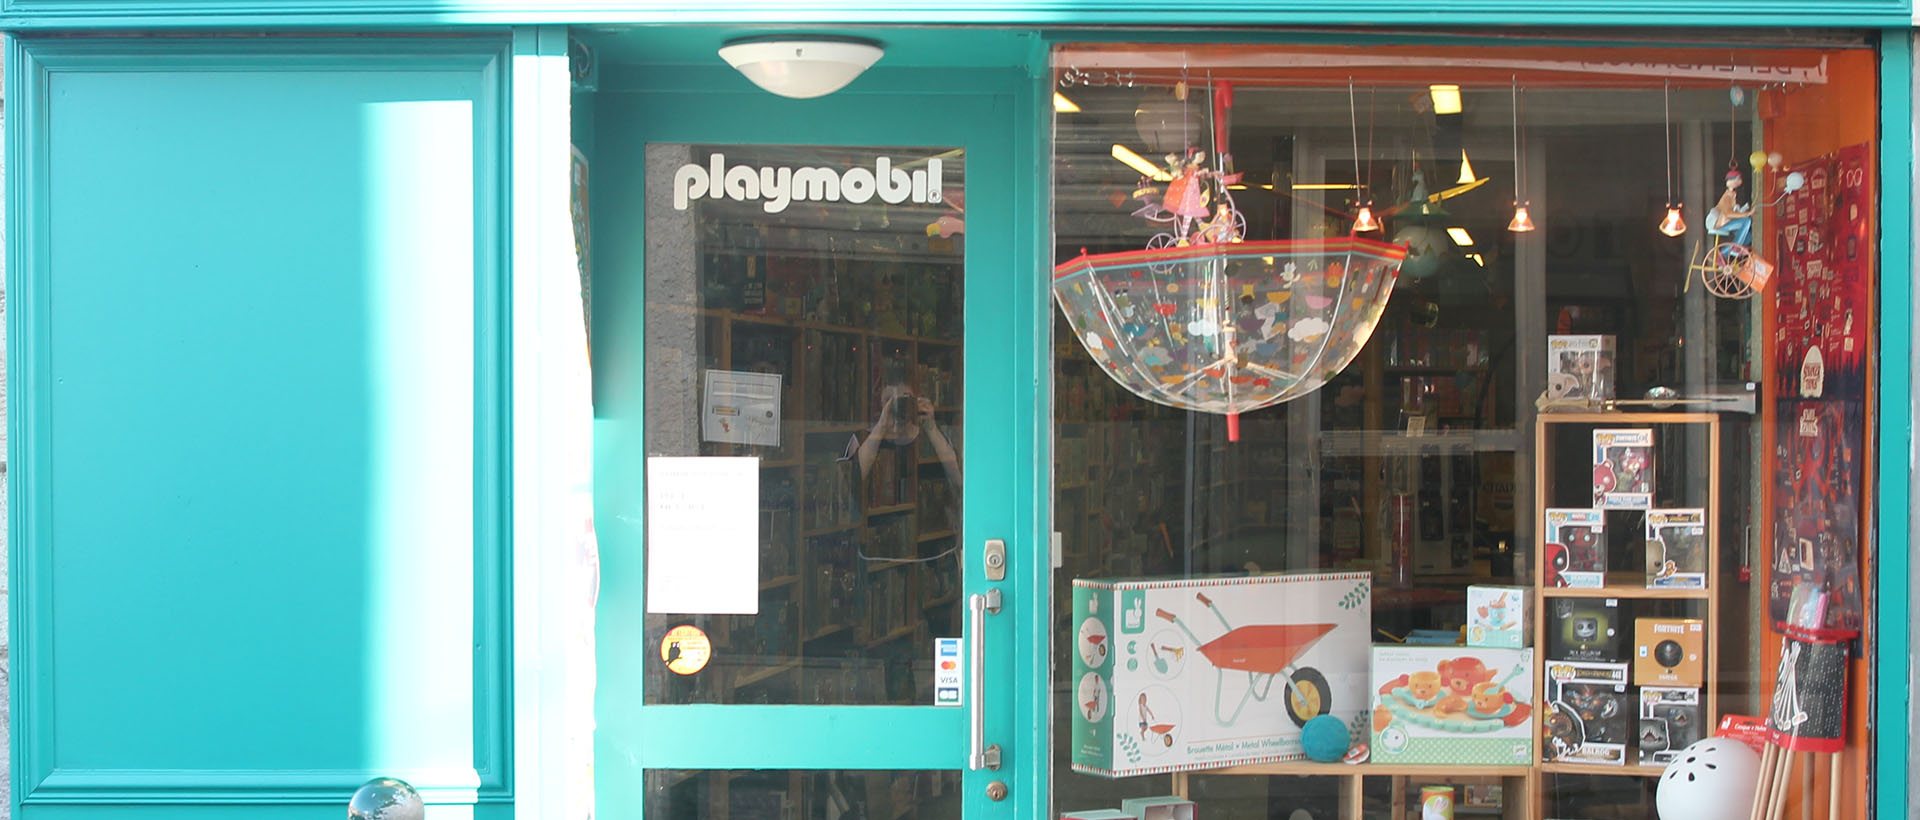
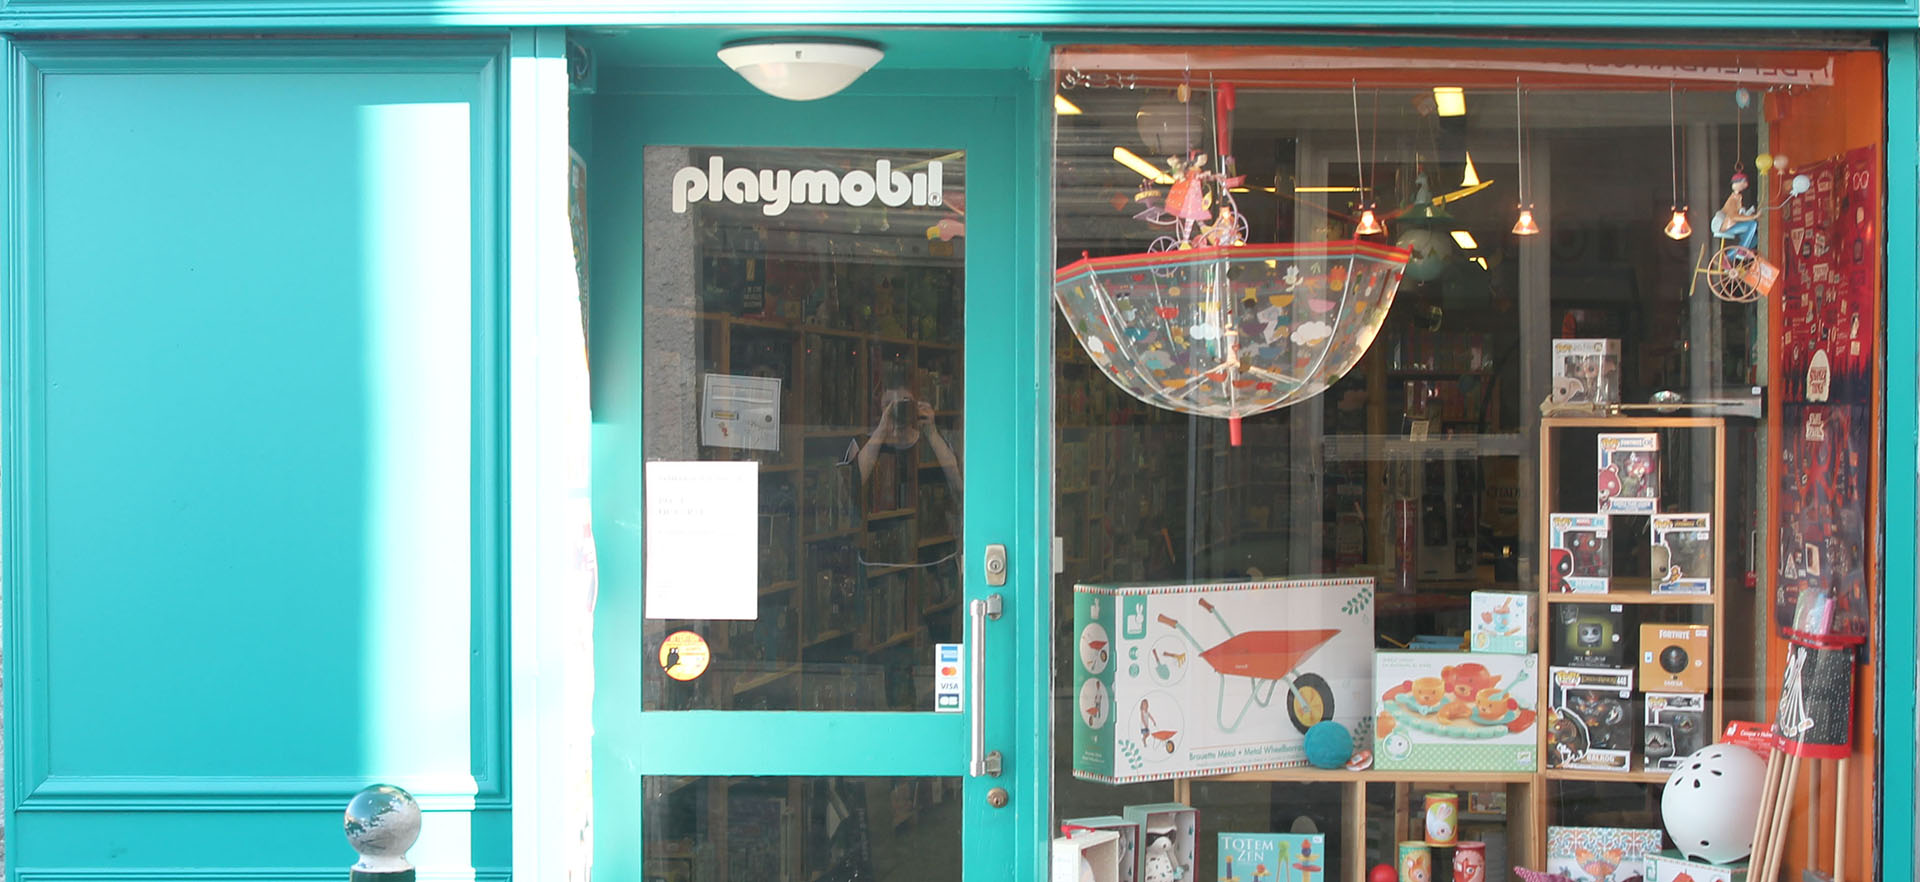
redimension images pour full viewport en 1920*1080

diff --git a/index2.html b/index2.html
@@ -38,47 +38,46 @@
 			      </div>
 		</nav>
 		<div id="Accueil"  class="viewport">
-			<div id="carousel>
+			<div id="carousel">
 				<div id="carouselExampleIndicators" class="carousel slide" data-ride="carousel">
 					<ol class="carousel-indicators">
-						<li data-target="#carouselExampleIndicators" data-slide-to="0" class="active"></li>
-						<li data-target="#carouselExampleIndicators" data-slide-to="1"></li>
-						<li data-target="#carouselExampleIndicators" data-slide-to="2"></li>
-						<li data-target="#carouselExampleIndicators" data-slide-to="3"></li>
-						<li data-target="#carouselExampleIndicators" data-slide-to="4"></li>
-						<li data-target="#carouselExampleIndicators" data-slide-to="5"></li>
-						<li data-target="#carouselExampleIndicators" data-slide-to="6"></li>
-						<li data-target="#carouselExampleIndicators" data-slide-to="7"></li>
-						<li data-target="#carouselExampleIndicators" data-slide-to="8"></li>
-						<li data-target="#carouselExampleIndicators" data-slide-to="9"></li>
+						<li data-target="#FirstSlide" data-slide-to="0" class="active"></li>
+						<li data-target="#SecondSlide" data-slide-to="1"></li>
+						<li data-target="#ThirdSlide" data-slide-to="2"></li>
+						<li data-target="#ForthSlide" data-slide-to="3"></li>
+						<li data-target="#FifthSlide" data-slide-to="4"></li>
+						<li data-target="#SixthSlide" data-slide-to="5"></li>
+						<li data-target="#SeventhSlide" data-slide-to="6"></li>
+						<li data-target="#EighthSlide" data-slide-to="7"></li>
+						<li data-target="#NinethSlide" data-slide-to="8"></li>
 					</ol>
 					<div class="carousel-inner">
 						<div class="carousel-item active">
-							<img class="d-block w-100 h-auto img-carousel" src="images/banniere/banniere_1.jpg" alt="First slide">
+							<img class="d-block w-100 h-auto img-carousel" id="FirstSlide" src="images/banniere/banniere_1.jpg" alt="First slide">
 						</div>
 						<div class="carousel-item">
-							<img class="d-block w-100 h-auto img-carousel" src="images/banniere/banniere_2.jpg" alt="Second slide">
+							<img class="d-block w-100 h-auto img-carousel" id="SecondSlide"src="images/banniere/banniere_2.jpg" alt="Second slide">
 						</div>
 						<div class="carousel-item">
-							<img class="d-block w-100 h-auto img-carousel" src="images/banniere/banniere_3.jpg" alt="Third slide">
+							<img class="d-block w-100 h-auto img-carousel" id="ThirdSlide" src="images/banniere/banniere_3.jpg" alt="Third slide">
 						</div>
 						<div class="carousel-item">
-							<img class="d-block w-100 h-auto img-carousel" src="images/banniere/banniere_4.jpg" alt="Forth slide">
+							<img class="d-block w-100 h-auto img-carousel" id="ForthSlide" src="images/banniere/banniere_4.jpg" alt="Forth slide">
 						</div>
 						<div class="carousel-item">
-							<img class="d-block w-100 h-auto img-carousel" src="images/banniere/banniere_5.jpg" alt="Fifth slide">
+							<img class="d-block w-100 h-auto img-carousel"  id="FifthSlide" src="images/banniere/banniere_5.jpg" alt="Fifth slide">
 						</div>
 						<div class="carousel-item">
-							<img class="d-block w-100 h-auto img-carousel" src="images/banniere/banniere_6.jpg" alt="Sixth slide">
+							<img class="d-block w-100 h-auto img-carousel" id="SixthSlide" src="images/banniere/banniere_6.jpg" alt="Sixth slide">
 						</div>
 						<div class="carousel-item">
-							<img class="d-block w-100 h-auto img-carousel" src="images/banniere/banniere_7.jpg" alt="Seventh slide">
+							<img class="d-block w-100 h-auto img-carousel" id="SeventhSlide" src="images/banniere/banniere_7.jpg" alt="Seventh slide">
 						</div>
 						<div class="carousel-item">
-							<img class="d-block w-100 h-auto img-carousel" src="images/banniere/banniere_8.jpg" alt="Eighth slide">
+							<img class="d-block w-100 h-auto img-carousel" id="EighthSlide" src="images/banniere/banniere_8.jpg" alt="Eighth slide">
 						</div>
 						<div class="carousel-item">
-							<img class="d-block w-100 h-auto img-carousel" src="images/banniere/banniere_9.jpg" alt="Nineth slide">
+							<img class="d-block w-100 h-auto img-carousel" id="NinethSlide" src="images/banniere/banniere_9.jpg" alt="Nineth slide">
 						</div>
 					</div>
 					<a class="carousel-control-prev" href="#carouselExampleIndicators" role="button" data-slide="prev">
